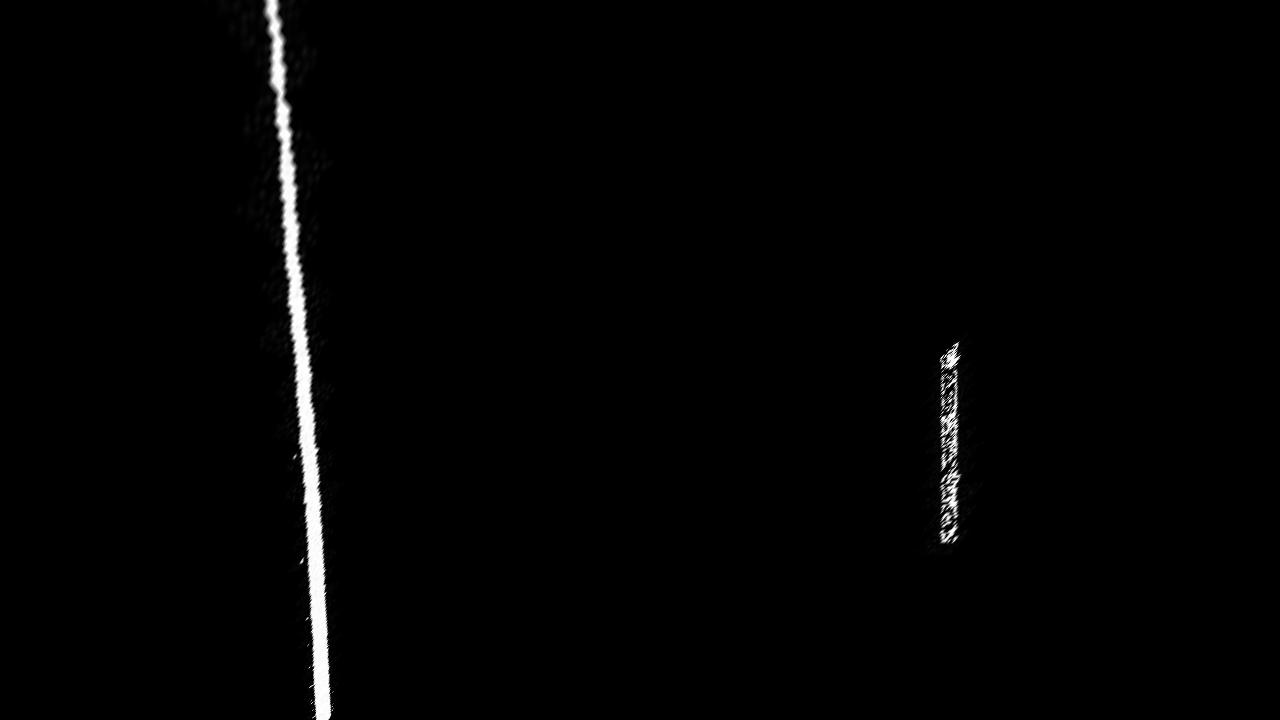
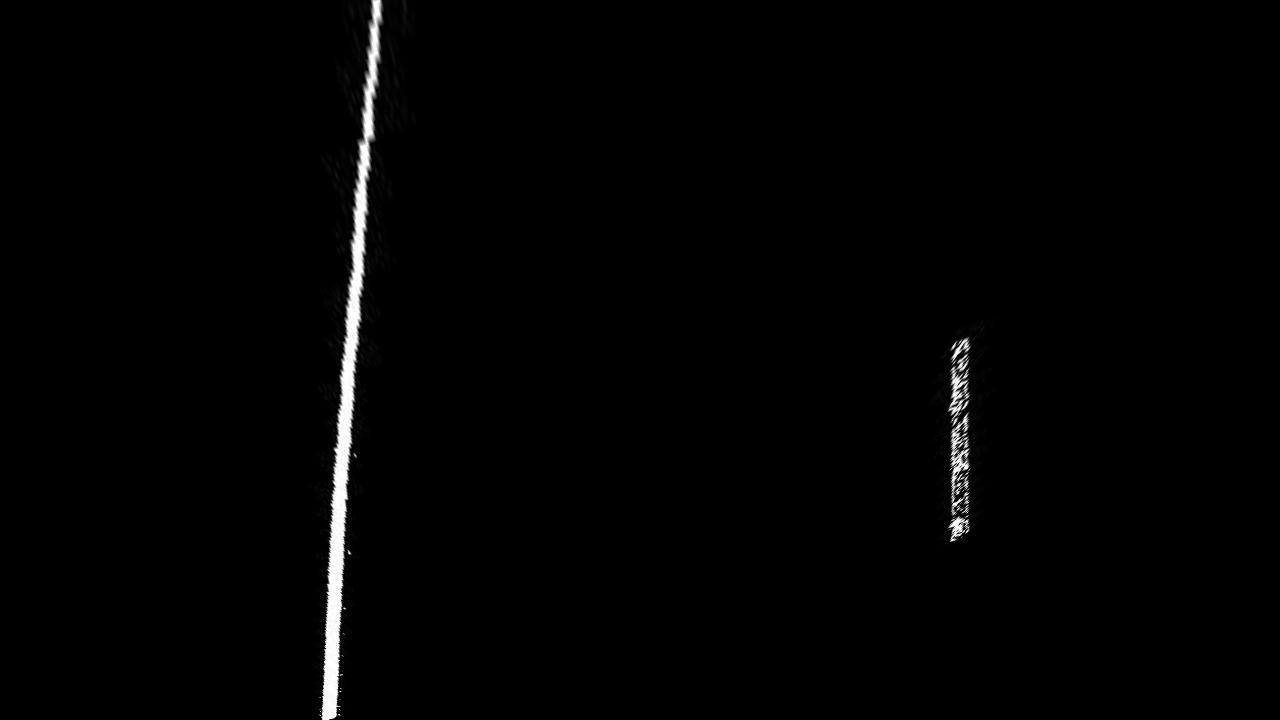
Fixed bug with ordering of destination points of perspective transform

Changed region(s): [[0.1875, 0.0, 0.3125, 1.0], [0.7188, 0.4583, 0.7812, 0.7639]]

diff --git a/Pipeline/__init__.py b/Pipeline/__init__.py
@@ -12,12 +12,13 @@ import matplotlib.image as mpimg
 from Camera_Calibration import calibrate_camera
 from Undistort_Image import undistort_image
 from HLS_select import hls_select
-from PerspectiveTransform import doPerspectiveTransform
+from PerspectiveTransform import doPerspectiveTransform, warpImage
 from VisualizationHelpers import saveResultImage
+from LanePolyFit import findLanePixels, colorLanePixels
 
 #-------------------------------------------------------- first calibrate camera
 #get camera matrix and distortion coefficients
-mtx, dst = calibrate_camera()
+mtx, dist_coeff = calibrate_camera()
 
 #----------------------------------------------------------------- import images
 
@@ -27,16 +28,25 @@ images = glob.glob('../test_images/*.jpg')
 # loop over images
 for file_name in images:
     
-    img = cv2.imread(file_name)
+    img = mpimg.imread(file_name)
     
     #----------------------------------------------------------- undistort image
-    undist = undistort_image(img, mtx, dst)    
+    undist = undistort_image(img, mtx, dist_coeff)    
     
     #--- convert to hls color space and apply threshold to generate binary image
-    hls = hls_select(undist, (185,255))
+    hls = hls_select(undist, (185,255), 'rgb')
     
     #-------------------------------------- transform to bird's eye perspective
-    warped = doPerspectiveTransform(hls)    
+    warped, src, dst = doPerspectiveTransform(hls)
+    
+    #------------------------------------------------------------ fit polynomial
+    retLanePix = findLanePixels(warped)
+    
+    #-------------------------------- color detected lane pixels in warped image
+    lanePixMarked = colorLanePixels(np.zeros_like(warped), retLanePix[0], retLanePix[1], retLanePix[2], retLanePix[3])
+    
+    #-------------------------------------------------------------- unwarp image
+    res_img = warpImage(lanePixMarked, dst, src)
     
     #--------------------------------------------------------------- save images
-    saveResultImage(warped, "../output_images/final", file_name, "-final", True)
+    saveResultImage(lanePixMarked, "../output_images/final", file_name, "-final", True)

diff --git a/PerspectiveTransform/__init__.py b/PerspectiveTransform/__init__.py
@@ -74,7 +74,6 @@ def trapezoidMask(img):
     return masked_image
 
 
-
 def findPoints(lines, img_width, img_height):
     '''
     finds points on the lines as input for the perspective Transformation and defines destination points
@@ -120,14 +119,14 @@ def findPoints(lines, img_width, img_height):
     x2 = x1
     y2 = y1 - max_len_left
     
-    #Third point (on right lane): x-coordinate = x1 + distance of lines
+    #Fourth point (on right lane): x-coordinate = x1 + distance of lines
     #y-coordinate = y1 + y-distance point 1 left lane - point 1 right lane
-    x3 = x1 + abs(right_line[0][0] - left_line[0][0])
-    y3 = abs(y1 - left_line[0][1] - right_line[0][1])
+    x4 = x1 + abs(right_line[0][0] - left_line[0][0])
+    y4 = abs(y1 - left_line[0][1] - right_line[0][1])
     
-    #Fourth point: x-coordinate = x3, y-coordinate = y3 + max_len_right
-    x4 = x3
-    y4 = abs(y3 - max_len_right)
+    #Third point: x-coordinate = x3, y-coordinate = y3 + max_len_right
+    x3 = x4
+    y3 = abs(y4 - max_len_right)
     
     dst = np.float32([[x1, y1], [x2, y2], [x3, y3], [x4, y4]])
     
@@ -152,6 +151,7 @@ def doPerspectiveTransform(img):
     Detects source and destination points from a grayscale version of an image
     and then does the perspective transformation of the image
     '''
+    
     #get the lane lines
     lines = houghLinesDetection(img)
     
@@ -164,6 +164,7 @@ def doPerspectiveTransform(img):
     #warp the image
     warped = warpImage(masked, src, dst)
     
-    return warped
+    return warped, src, dst
+
     
         

diff --git a/LanePolyFit/__init__.py b/LanePolyFit/__init__.py
@@ -116,10 +116,12 @@ def findLanePixels(img, visualize=False):
     rightx = nonzerox[right_lane_inds]
     righty = nonzeroy[right_lane_inds]
     
-    img[lefty, leftx] = [255,0,0]
-    img[righty, rightx] = [0,0,255]
+    output_img = img.copy()
+    
+    output_img[lefty, leftx] = [255,0,0]
+    output_img[righty, rightx] = [0,0,255]
 
-    return leftx, lefty, rightx, righty, l_left_seg, l_right_seg, img
+    return leftx, lefty, rightx, righty, l_left_seg, l_right_seg, output_img
 
 
 def fitPolynomial(leftx, lefty, rightx, righty, visualize=False, img=np.array([],[])):
@@ -166,4 +168,14 @@ def fitPolynomial(leftx, lefty, rightx, righty, visualize=False, img=np.array([]
     return left_fit, right_fit, img
 
     
+def colorLanePixels(img, leftx, lefty, rightx, righty,):
     
+    pixImg = img.copy()
+    
+    #color image red where the left lane was detected
+    pixImg[lefty, leftx] = [255,0,0]
+    
+    #blue for the right lane line
+    pixImg[righty, rightx] = [0,0,255]
+    
+    return pixImg

diff --git a/PerspectiveTransform/testFindPoints.py b/PerspectiveTransform/testFindPoints.py
@@ -6,7 +6,7 @@ Created on 6 oct. 2019
 import glob
 import cv2
 from PerspectiveTransform import houghLinesDetection, findPoints
-from VisualizationHelpers import drawDots, saveResultImage
+from VisualizationHelpers import drawDots, saveResultImage, addText
 
 #import images
 #read in all binary images with names with pattern *.jpg (output of hls selection)
@@ -31,10 +31,12 @@ for file_name in images:
     #source points
     for i in range(4):
         dots_img = drawDots(dots_img, (src[i][0], src[i][1]))
+        dots_img = addText(dots_img, "["+str(i)+"]", (src[i][0], src[i][1]))
     
     #destination points
     for i in range(4):
         dots_img = drawDots(dots_img, (dst[i][0], dst[i][1]), (0,255,0))
+        ots_img = addText(dots_img, "["+str(i)+"]", (dst[i][0], dst[i][1]), (0,255,0))
     
     #save images
     saveResultImage(dots_img, "../output_images/points", file_name, "-points", True)

diff --git a/LanePolyFit/testLanePixels.py b/LanePolyFit/testLanePixels.py
@@ -9,7 +9,7 @@ from LanePolyFit import findLanePixels
 from VisualizationHelpers import saveResultImage
 
 #read in all binary images with names with pattern *.jpg (output of hls selection)
-images = glob.glob('../output_images/final/*.jpg')
+images = glob.glob('../output_images/warped/*.jpg')
 
 # loop over images
 for file_name in images:
@@ -19,4 +19,4 @@ for file_name in images:
     #find the lane pixels
     leftx, lefty, rightx, righty, l_left_seg, l_right_seg, out_img = findLanePixels(img, True)
     
-    saveResultImage(out_img, "../output_images/windows", file_name, "-windows", True)
+    saveResultImage(out_img, "../output_images/windows", file_name, "-windows", False)

diff --git a/LanePolyFit/testFitPolynomial.py b/LanePolyFit/testFitPolynomial.py
@@ -9,7 +9,7 @@ from LanePolyFit import fitPolynomial, findLanePixels
 from VisualizationHelpers import saveResultImage
 
 #read in all binary images with names with pattern *.jpg (output of hls selection)
-images = glob.glob('../output_images/final/*.jpg')
+images = glob.glob('../output_images/warped/*.jpg')
 
 # loop over images
 for file_name in images:

diff --git a/Curvature/testCurvature.py b/Curvature/testCurvature.py
@@ -8,7 +8,7 @@ import cv2
 from Curvature import realLaneCurvature
 
 #read in all binary images with names with pattern *.jpg (output of hls selection)
-images = glob.glob('../output_images/final/*.jpg')
+images = glob.glob('../output_images/warped/*.jpg')
 
 #open file to write curvatures
 file_obj = open("Curvatures.txt", 'w')

diff --git a/LanePolyFit/testStartingPoints.py b/LanePolyFit/testStartingPoints.py
@@ -10,7 +10,7 @@ from VisualizationHelpers import drawDots, saveResultImage
 
 #import images
 #read in all binary images with names with pattern *.jpg (output of hls selection)
-images = glob.glob('../output_images/final/*.jpg')
+images = glob.glob('../output_images/warped/*.jpg')
 
 # loop over images
 for file_name in images:

diff --git a/PerspectiveTransform/test.py b/PerspectiveTransform/test.py
@@ -18,7 +18,7 @@ for file_name in images:
     
     img = cv2.imread(file_name)
 
-    warped = doPerspectiveTransform(img)
+    warped, src, dst = doPerspectiveTransform(img)
     #save images
     saveResultImage(warped, "../output_images/warped", file_name, "-warped", True)
     
